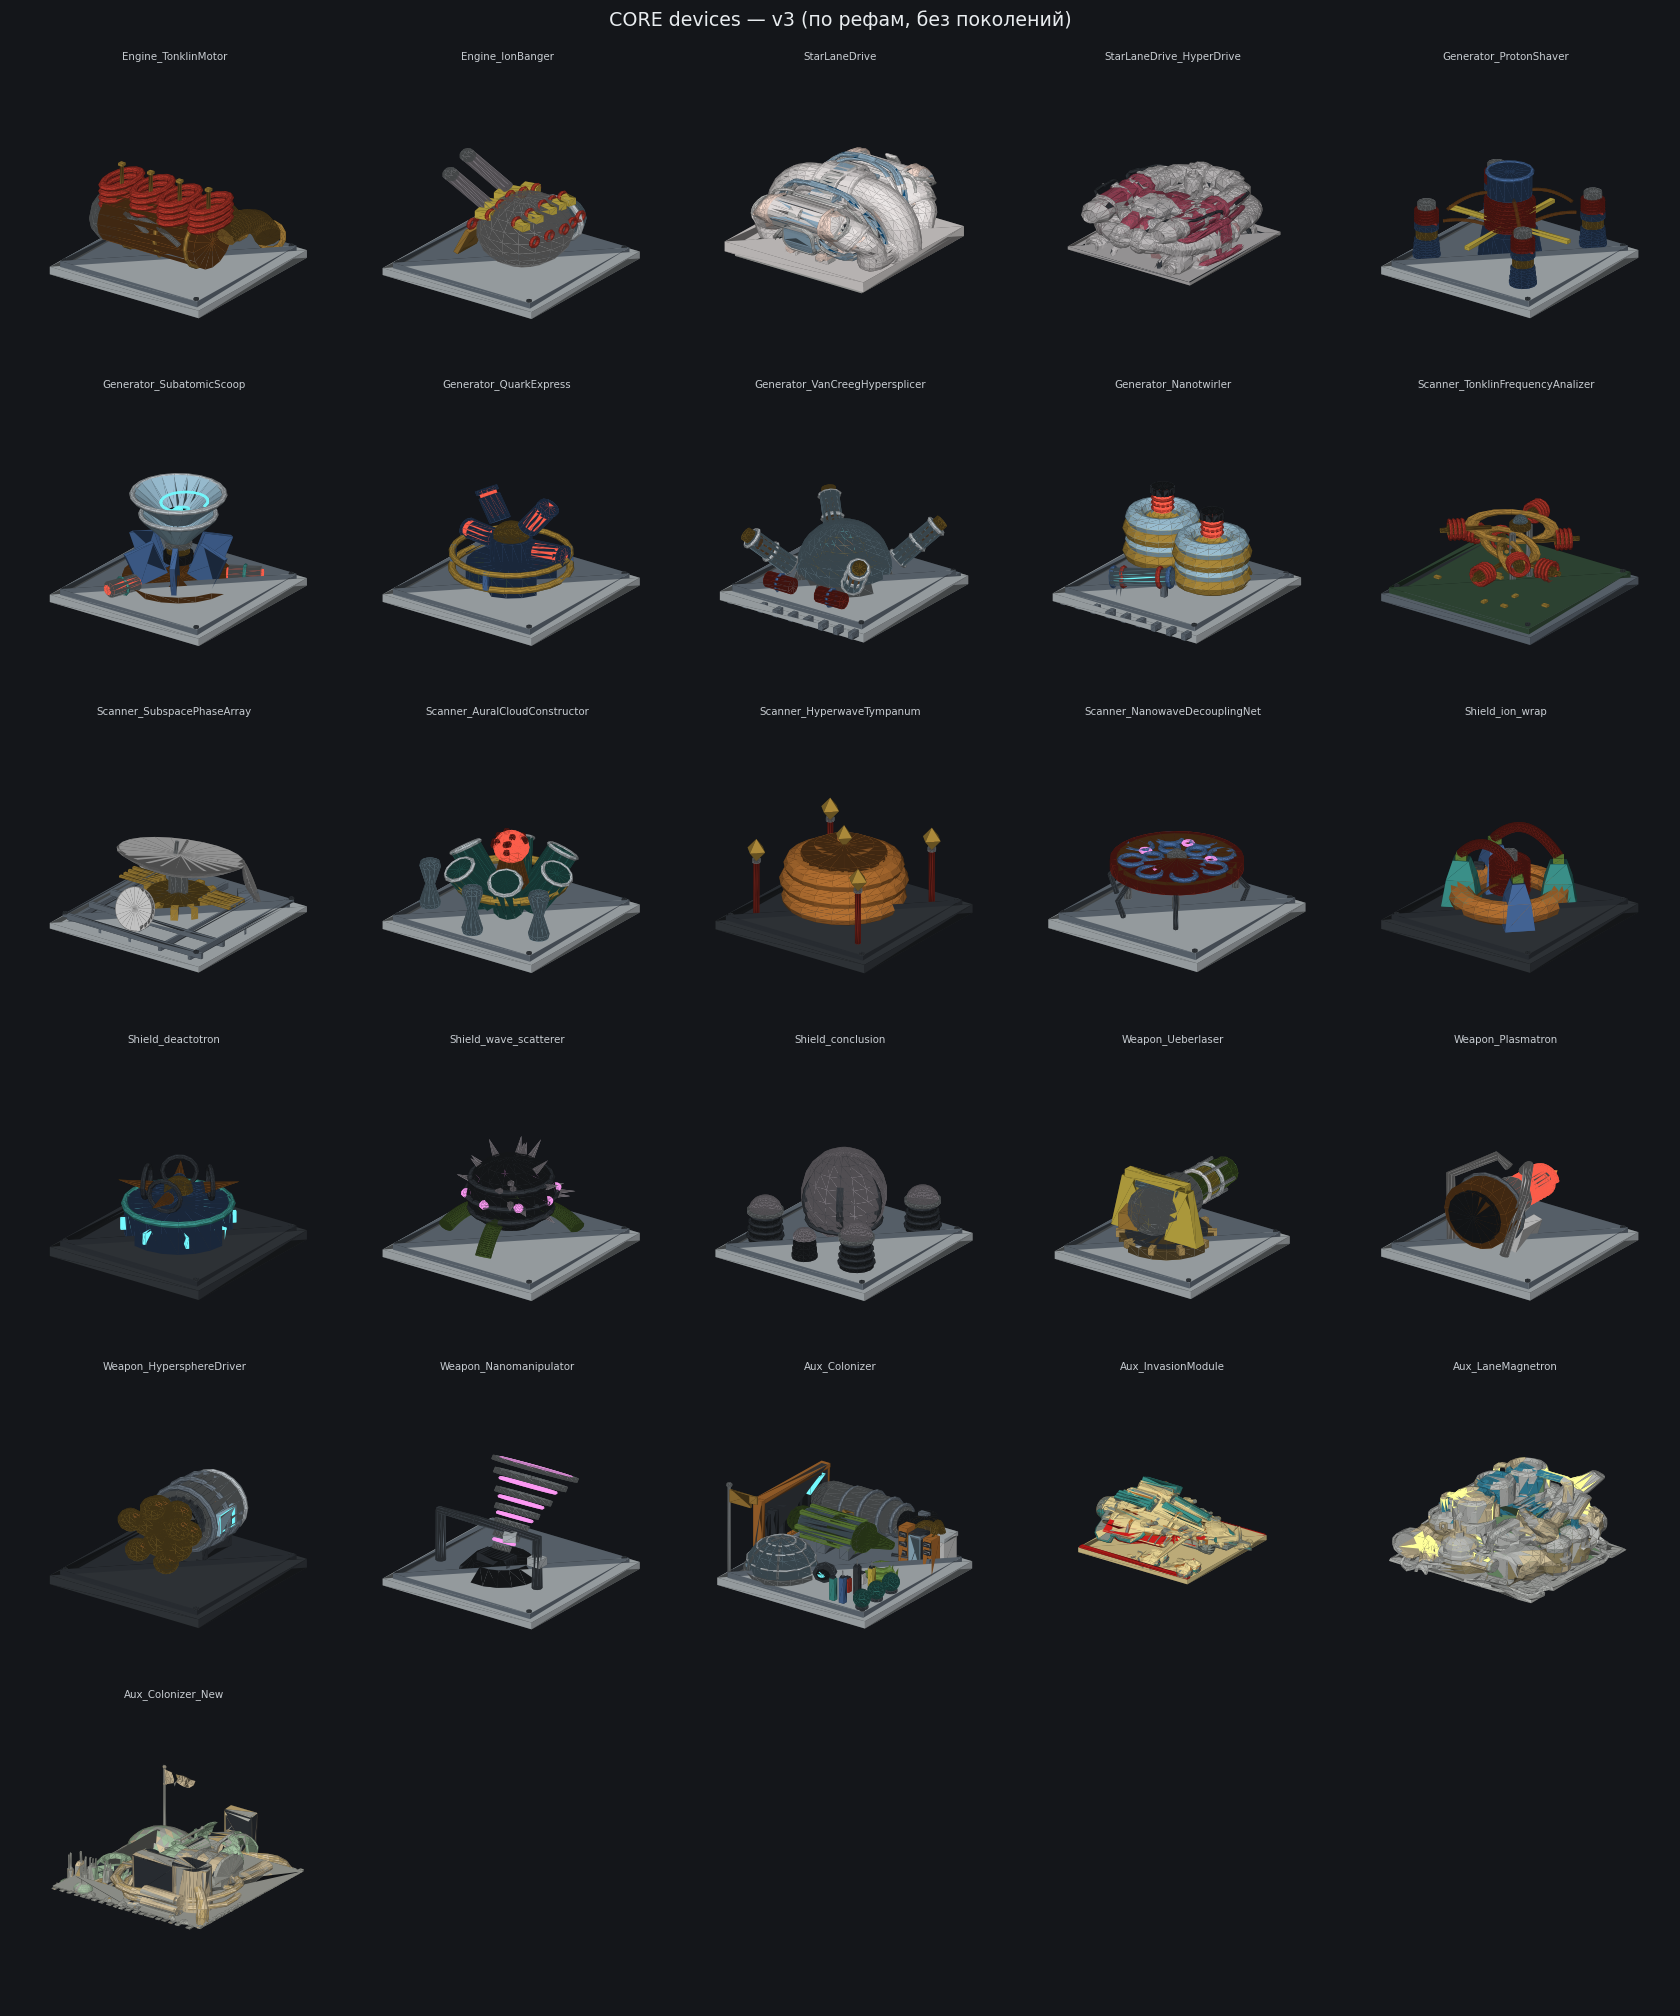
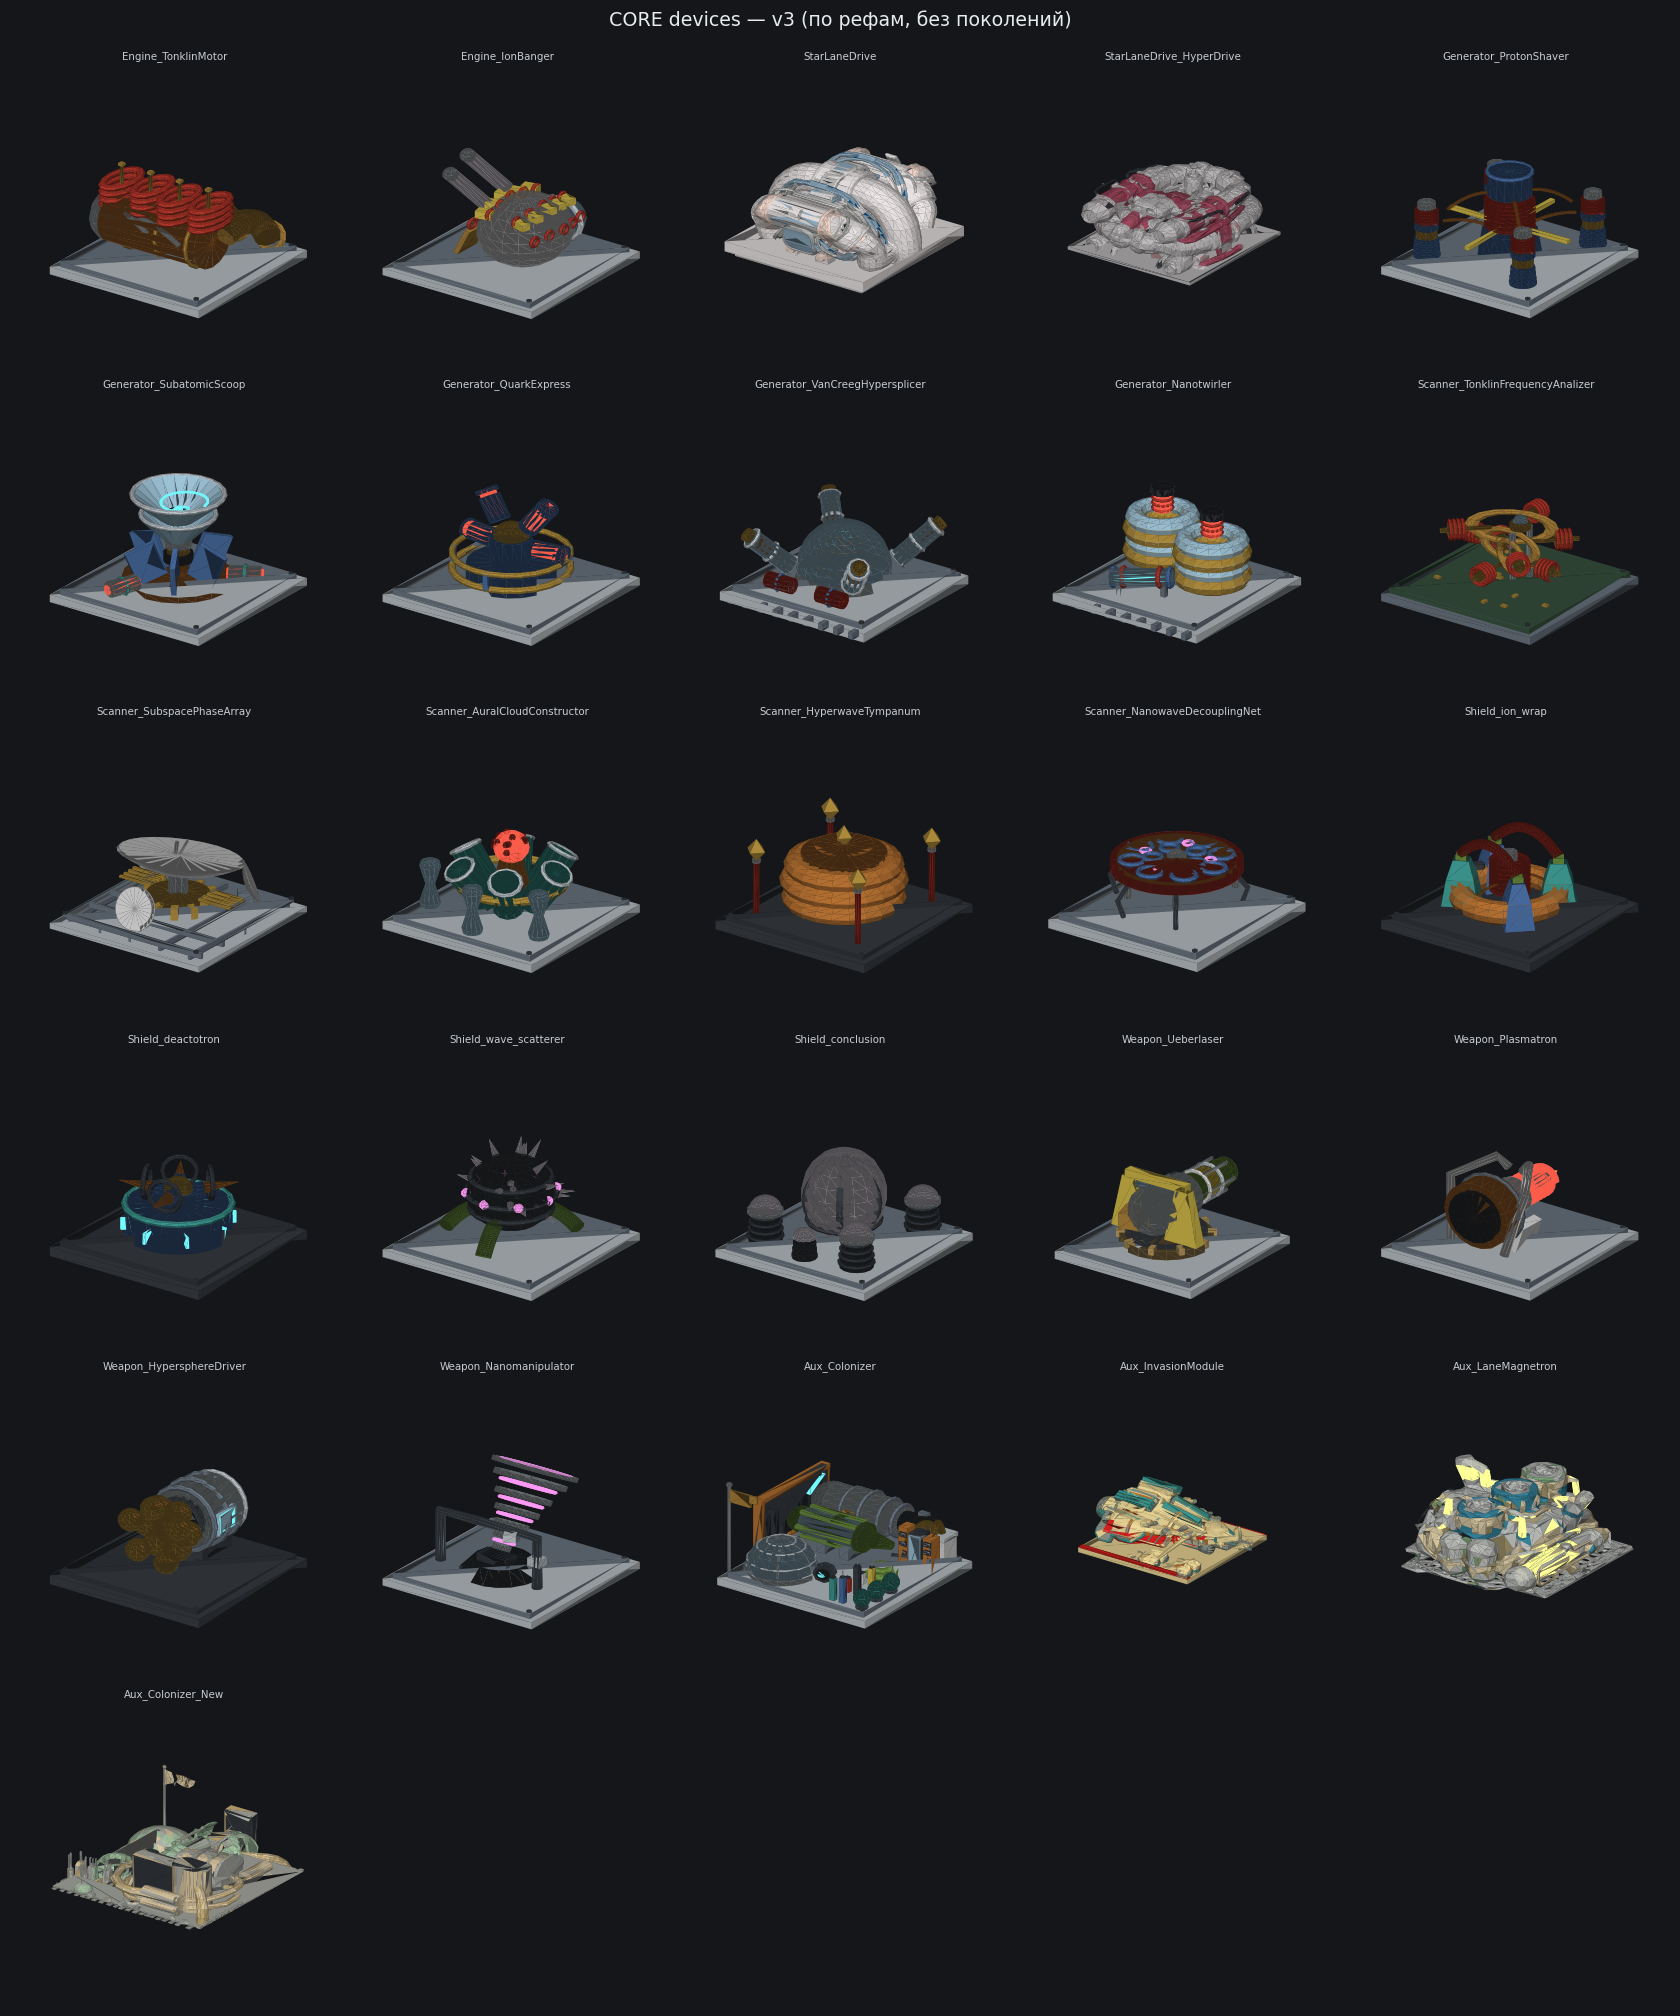
Rebuild LaneMagnetron from cleaner retopo reference (v3)
Aux_core_LaneMagnetron_3.glb — более чистая ретопология той же модели
(4394 верш./10792 треуг. вместо 5684/10321). Цвет с парной
текстурированной модели (голосование по 5 ближайшим граням,
linear->sRGB), теги прежние (lmgray/lmtan/lmbrass/lmteal/lmglow/
lmgreen/dark). Родная плита-решётка чистая (61 пара близких
параллельных граней против 744 у старой плиты InvasionModule) —
оставлена как есть. Модель отнормирована до макс. габарита 1.0 и
развёрнута на 90° для витринного ракурса. Оригиналы референсов в
ascendancy-refs-originals, в репо JPEG-превью.

Changed region(s): [[0.8048, 0.7188, 0.9595, 0.8125]]

diff --git a/docs/asset-bible/tools/device_recipes_core.py b/docs/asset-bible/tools/device_recipes_core.py
@@ -1298,14 +1298,15 @@ _LANE_MAGNETRON_MESH_PATH = os.path.join(
 
 def aux_lane_magnetron(seed=0):
     """Заменяет прежнюю процедурную версию — геометрия из
-    низкополигонального референса Aux_core_LaneMagnetron_2.glb (5684
-    верш./10321 треуг., ~188KB, без цвета). Цвет перенесён с
-    Aux_core_LaneMagnetron_2_texture.glb (та же модель, ~1.8x масштаб,
-    4096-текстура; топология близкая, но не точно 1:1, поэтому перенос —
-    как у InvasionModule: ~10k образцов с текстуры (linear->sRGB), для
-    каждой грани референса-2 голосование по 40 ближайшим точкам среди
-    узкого набора реальных цветов (lmgray/lmtan/lmbrass/lmteal/lmglow/
-    lmgreen/dark, найденных k-means). Собственная плита уже есть в
-    меше — общая плита каталога отключена (device_catalog_core.RECIPES,
-    plate=None)."""
+    низкополигонального референса Aux_core_LaneMagnetron_3.glb (4394
+    верш./10792 треуг., ~179KB, без цвета; более чистая ретопология,
+    чем у версии 2). Цвет перенесён с Aux_core_LaneMagnetron_3_texture.glb
+    (та же модель, 4096-текстура; топология близкая, но не 1:1 —
+    голосование по 5 ближайшим граням, linear->sRGB) в узкий набор
+    реальных цветов модели (lmgray/lmtan/lmbrass/lmteal/lmglow/lmgreen/
+    dark, найденных k-means). Родная плита-решётка чистая (без
+    почти-совпадающих граней) и оставлена как есть. Модель отнормирована
+    до макс. габарита 1.0 и развёрнута на 90° для витринного ракурса.
+    Собственная плита уже есть в меше — общая плита каталога отключена
+    (device_catalog_core.RECIPES, plate=None)."""
     return _load_imported_mesh(_LANE_MAGNETRON_MESH_PATH)